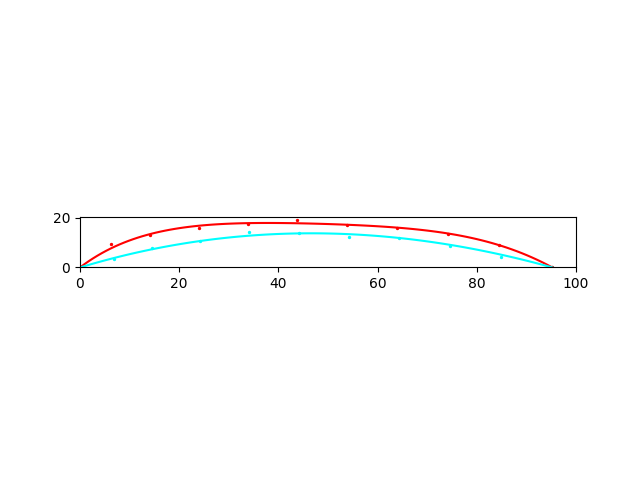
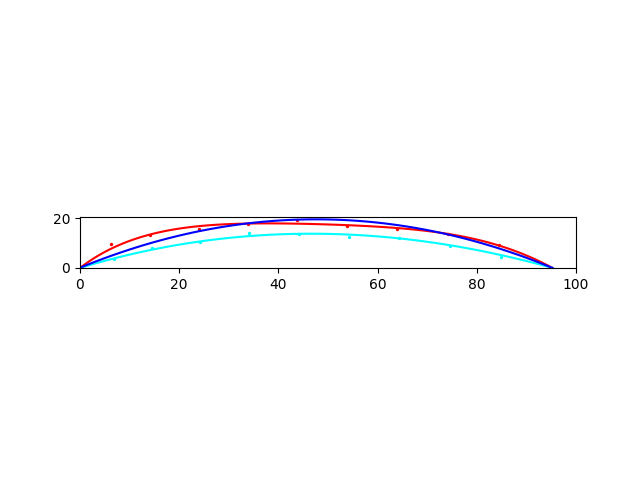
ellipse trials

Changed region(s): [[0.125, 0.4375, 0.9062, 0.625], [0.0625, 0.4375, 0.125, 0.4688]]

diff --git a/points_plotting/polynomial_plot.py b/points_plotting/polynomial_plot.py
@@ -3,6 +3,9 @@ import nibabel as nib
 import numpy as np
 from scipy.optimize import curve_fit
 from scipy.optimize import least_squares
+from scipy.optimize import minimize
+
+from translate_rotate import move
 
 
 ## THIS FUNCTION RETURNS A POLYNOMIAL AND VALUES TO PLOT FROM GIVEN Y AND X COORDS
@@ -35,9 +38,35 @@ def fit_poly(y_coords, x_coords, order=2):
 
     return poly_func, x_values, y_values
 
-
+"""
 def func(x, a, b, c, d, e):
     return (np.sqrt(1-(a*x-d)*np.sqrt(1+(b*x-e)+c)))
+
+"""
+
+# Define the function that represents the upper portion of an ellipse
+def func(x, h, a, c, d):
+    # To ensure we only deal with the upper portion, we return NaN if the inside of the sqrt becomes negative
+    with np.errstate(invalid='ignore'):
+        y = h * np.sqrt(np.maximum(0, a**2 - (x - c)**2)) + d
+    return y
+
+# Define a cost function that calculates the total squared error
+def cost_function(params, h_coords, v_coords):
+    h, a, c, d = params
+    predicted = func(h_coords, h, a, c, d)
+    return np.sum((v_coords - predicted) ** 2)
+
+# Define the constraints by ensuring the function passes through the endpoints
+def constraint1(params, h_coords, v_coords, tol):
+    h, a, c, d = params
+    return func(h_coords[0], h, a, c, d) - v_coords[0] - tol #should be 0
+
+def constraint2(params, h_coords, v_coords, tol):
+    h, a, c, d = params
+    return func(h_coords[-1], h, a, c, d) - v_coords[-1] - tol # should be 0
+
+
 
 """
 def func3(x, a, b, c, d, e):
@@ -61,11 +90,18 @@ def approx_poly(h_coords, v_coords):
     print(v_coords)
 
     # Define the weights
-    weights = np.zeros_like(h_coords)
-    weights = weights+0.05
-    weights[0] = 10 # Increase weight for the first point
-    weights[-1] = 10  # Increase weight for the last point
+    weights = np.ones_like(h_coords)
+    weights[0] = 5 # Increase weight for the first point
+    weights[-1] = 5  # Increase weight for the last point
     print(h_coords[0])
+
+    
+    
+
+    ## Calculate the mean of the first and last entries
+    #mean_first_last = np.mean([h_coords[0], h_coords[-1]])
+    #h_coords_centered=h_coords - mean_first_last
+
 
     # Decrease weights gradually towards the middle
     """middle_idx = int(len(weights) // 2)
@@ -76,27 +112,78 @@ def approx_poly(h_coords, v_coords):
     """ 
     try:
         # Perform curve fitting
-        initial_guess = (10, 80, -180, 2500, 2500)
+        # initial_guess = (10, 80, -180, 2500, 2500)
+        h = v_coords.max()
+        a = h_coords.max() - h_coords.min()
+        c = a / 2 # middle value
+        d = v_coords.min()
+        initial_guess=(h, a, c, d) 
         ##popt, _ = curve_fit(func, h_coords, v_coords, p0=(10, 80, -180, 2500, 2500), sigma=weights)
-        popt, _ = curve_fit(func, h_coords, v_coords, p0=initial_guess, sigma=weights)
+        params, covariance = curve_fit(func, h_coords, v_coords, p0=initial_guess, sigma=weights)
         
         ##popt2, _ = curve_fit(func2, h_coords, v_coords, p0=(0.005, 135, 80))
+        """
+        # Solving for 'd' using both endpoints
+        # At x = x1, y = y1
+        h, a, c, _ = params
+        x1, y1 = h_coords[0], v_coords[0]
+        d1 = y1 - h * np.sqrt(np.maximum(0, a**2 - (x1 - c)**2))
 
-    
+        # At x = x2, y = y2
+        x2, y2 = h_coords[-1], v_coords[-1]
+        d2 = y2 - h * np.sqrt(np.maximum(0, a**2 - (x2 - c)**2))
+
+        # One approach could be to average d1 and d2 to find a reconciled 'd' value
+        d_avg = (d1 + d2) / 2
+
+        # Adjusting our parameter list
+        params_adjusted = [h, a, c, d_avg]
+        """
+        """
+        # Adjust 'd' to make sure the curve goes through the first endpoint
+        h, a, c, _ = params
+        d_adjusted = v_coords[0] - h * np.sqrt(np.maximum(0, a**2 - (h_coords[0] - c)**2))
+
+        # Apply the adjustment
+        params[-1] = d_adjusted
+        """ 
         # Extract the optimal parameter
-        a_optimal, b_optimal, c_optimal, d_optimal, e_optimal= popt
+        h_optimal_init, a_optimal_init, c_optimal_init, d_optimal_init = params
+        print(h_optimal_init)
+        print(a_optimal_init)
+        #print(b_optimal)
+        print(c_optimal_init)
+        print(d_optimal_init)
+        #print(e_optimal)
+
+        # Set constraints
+        # Modifying optimization constraints to use local scope variables
+        tol = 1E-2
+        cons = [{'type': 'eq', 'fun': lambda params: constraint1(params, h_coords, v_coords, tol)},
+                {'type': 'eq', 'fun': lambda params: constraint2(params, h_coords, v_coords, tol)}]
+
+        
+        # Use minimize to find the best parameters under the constraints
+        # Optimize parameters under constraints
+        result = minimize(lambda params: cost_function(params, h_coords, v_coords), initial_guess, constraints=cons)
+
+
+        # Extract the optimal parameters
+        h_optimal, a_optimal, c_optimal, d_optimal = result.x
+
+        print(h_optimal)
         print(a_optimal)
-        print(b_optimal)
+        #print(b_optimal)
         print(c_optimal)
         print(d_optimal)
-        print(e_optimal)
-    
+            
 
         # Generate x values using the fitted function
         h_values = np.linspace(min(h_coords), max(h_coords), 100)
         #v_fitted = func(h_values, a_optimal, b_optimal, c_optimal, d_optimal, e_optimal)
-        v_fitted = func(h_values, a_optimal, b_optimal, c_optimal, d_optimal, e_optimal)
+        v_fitted = func(h_values, h_optimal, a_optimal, c_optimal, d_optimal)
         #v_fitted = func2(h_values, a_optimal, c_optimal, d_optimal)
+
 
         return a_optimal, h_values, v_fitted
     except RuntimeError:

diff --git a/points_plotting/extract_data_make_plots.py b/points_plotting/extract_data_make_plots.py
@@ -327,14 +327,21 @@ def test_fun(patient_id, patient_timepoint):
     _, _, _, xb_coords, yb_coords = load_data_readout(data_readout_loc, 'baseline_arrays.npz')
     _, _, _, xr_coords, yb_coords = load_data_readout(data_readout_loc, 'reflected_baseline_arrays.npz')
 
-    a_optimal, h_values, v_fitted = approx_poly(ya_coords, xa_coords)
+    tr_h_coords, tr_v_coords, _ = move(ya_coords, xa_coords, poly=0)
+    print(tr_h_coords, tr_v_coords)
+    a_optimal, h_values, v_fitted = approx_poly(tr_h_coords, tr_v_coords)
 
     # Plot the original data points and the fitted curve
-    plt.scatter(ya_coords, xa_coords, label='Original data points', color='r', s=2)
+    #plt.scatter(ya_coords, xa_coords, label='Original data points', color='r', s=2)
+    plt.scatter(tr_h_coords, tr_v_coords, label='translated and rotated data points', color='r', s=2)
     plt.plot(h_values, v_fitted, label='Fitted curve', color='red')
+    plt.scatter(tr_h_coords[0], tr_v_coords[0], c='black')
+    plt.scatter(tr_h_coords[-1], tr_v_coords[-1], c='orange', label='h[-1], v[-1]')
     plt.xlabel('y')
     plt.ylabel('x')
-    plt.title('Fitting sqrt(1 - x^2)')
+    plt.xlim(0)
+    plt.ylim(0)
+    plt.title('Fitting function of form y=h sqrt[a^2-x^2]')
     plt.legend()
     plt.grid(True)
     plt.show()

diff --git a/points_plotting/omain.py b/points_plotting/omain.py
@@ -5,19 +5,22 @@ from scipy.integrate import quad
 
 #user defined function
 from extract_data_make_plots import rt_data_make_plots
+from extract_data_make_plots import test_fun
+
 
 
 #load data
 patient_id = '19978'
 patient_timepoint="acute"
-rt_data_make_plots(patient_id, patient_timepoint)
+#rt_data_make_plots(patient_id, patient_timepoint)
+test_fun(patient_id, patient_timepoint)
 
 patient_timepoint="fast"
-rt_data_make_plots(patient_id, patient_timepoint)
+#rt_data_make_plots(patient_id, patient_timepoint)
 
 patient_id='19344'
 patient_timepoint='acute'
-rt_data_make_plots(patient_id, patient_timepoint)
+#rt_data_make_plots(patient_id, patient_timepoint)
 
 patient_timepoint='fast'
 #rt_data_make_plots(patient_id, patient_timepoint)
